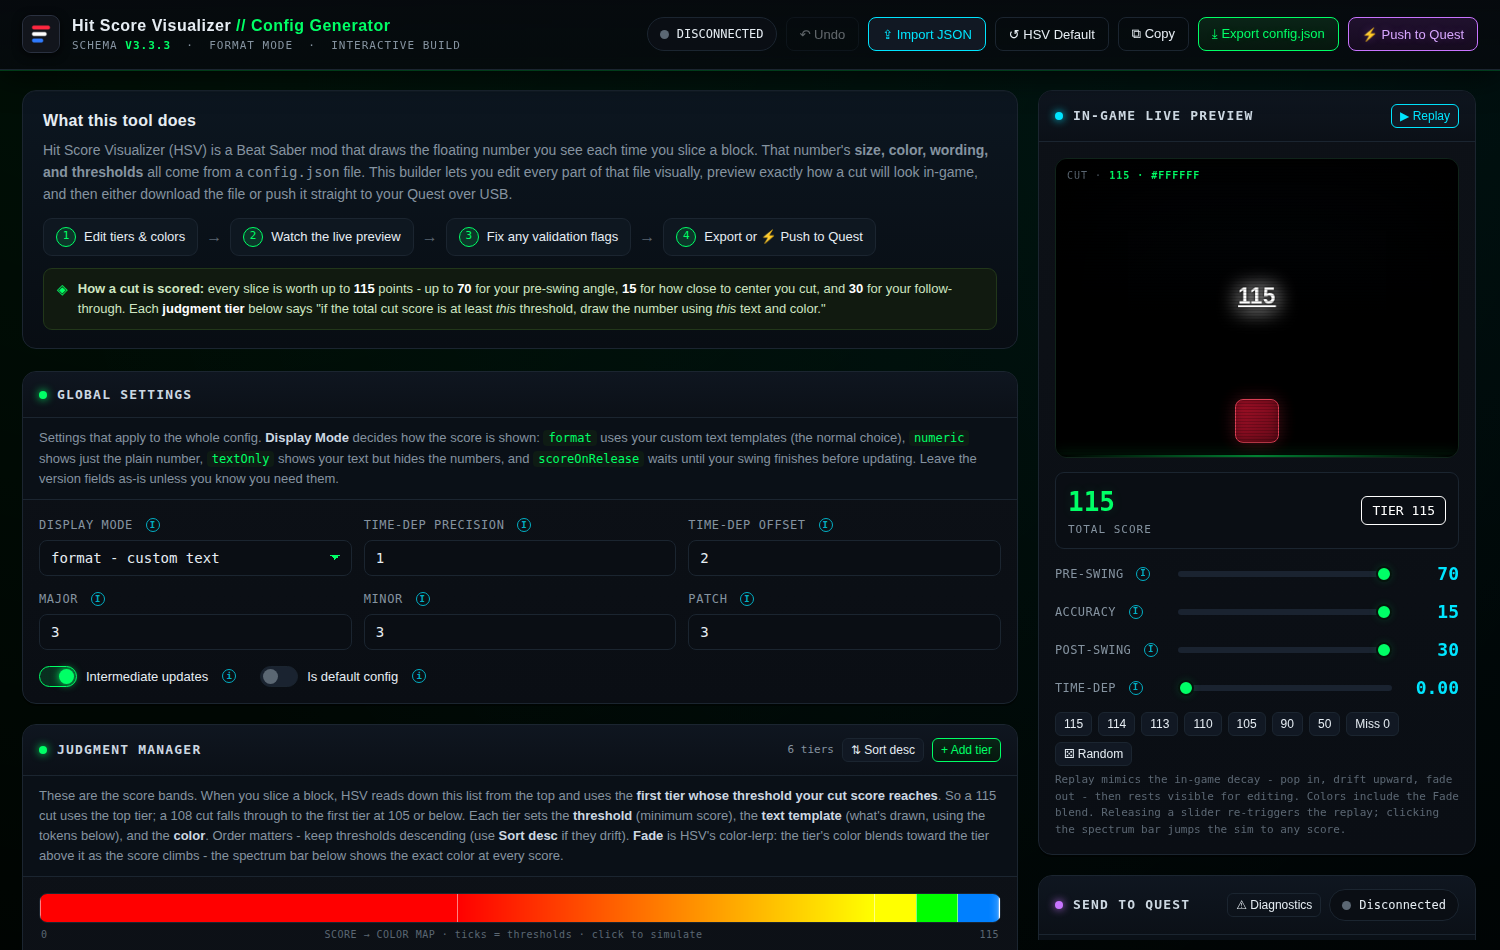
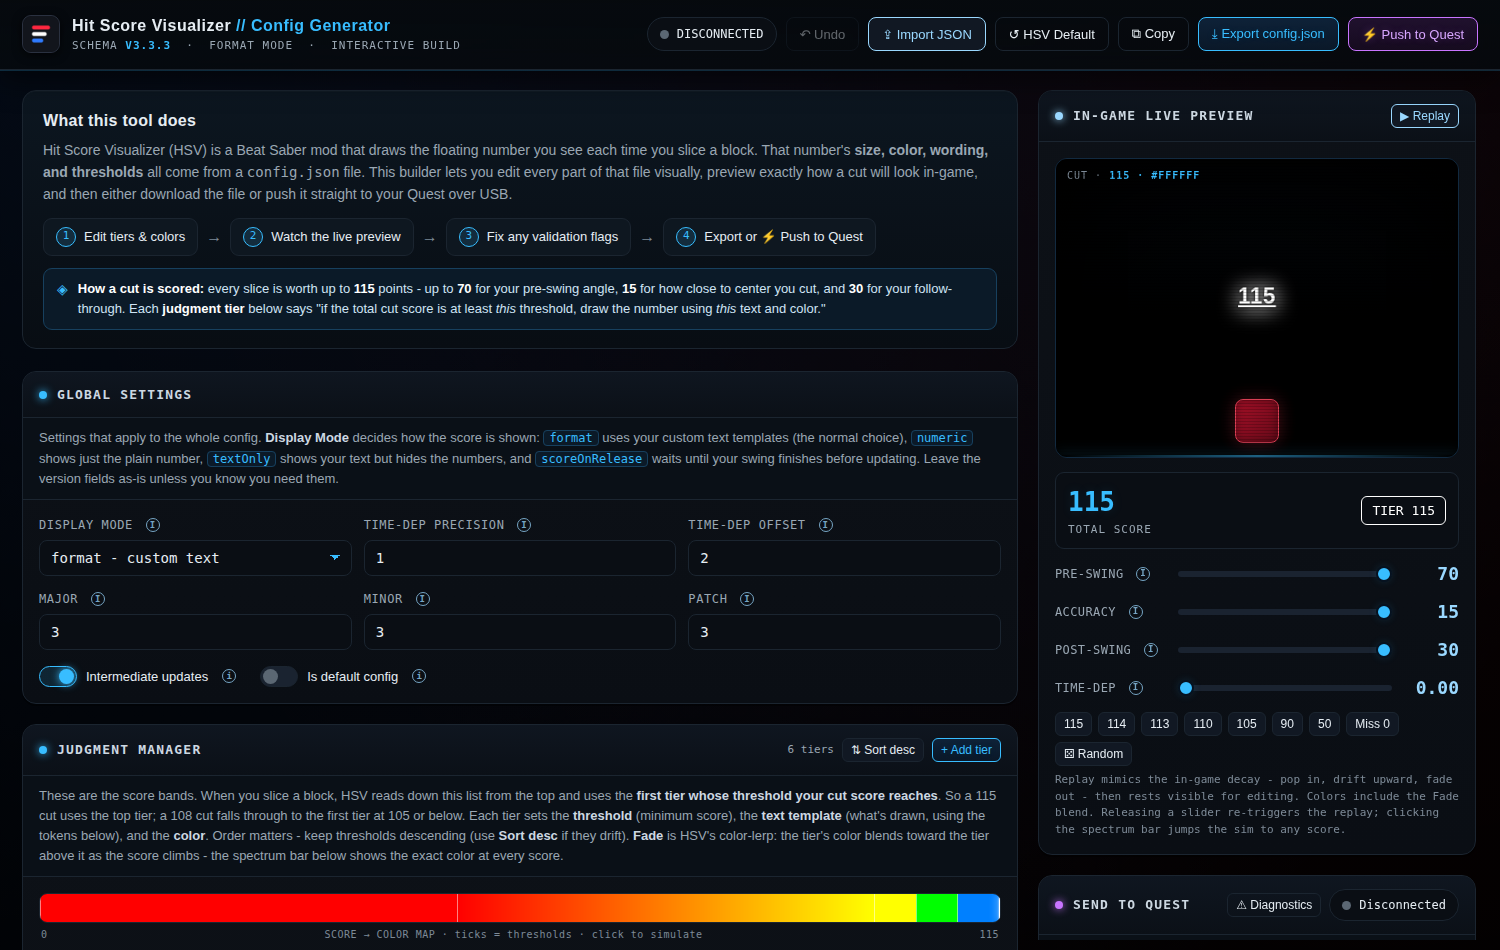
UI Updates

diff --git a/index.html b/index.html
@@ -12,17 +12,23 @@
     --panel-2:#0a0e14;
     --panel-3:#111823;
     --border:#1b2530;
-    --border-glow:#00ff6633;
-    --grid:#0e2a1c;
-    --accent:#00ff66;
-    --accent-2:#00e5ff;
-    --accent-dim:#00ff6622;
+    /* Brand palette (from the MSploit icon): blue #2f7bff, red #ff2740, white */
+    --brand-blue:#2f7bff;
+    --brand-red:#ff2740;
+    --border-glow:#38bdff33;
+    --grid:#0e1f2e;
+    --accent:#38bdff;          /* primary accent: electric cyan-blue, 8.9:1 on panels */
+    --accent-2:#9ad8ff;        /* secondary: ice blue for values, info, links */
+    --accent-dim:#38bdff22;
+    --accent-bg:#0b1a28;       /* tinted fill for code chips, callouts, primary buttons */
+    --accent-line:#17405e;
     --text:#e6edf3;
-    --muted:#8593a0;
-    --muted-2:#5b6773;
-    --danger:#ff3b52;
+    --muted:#9aa7b3;           /* labels: 7.7:1 */
+    --muted-2:#7d8a97;         /* hints: 5.4:1 (was 3.3, failed AA) */
+    --danger:#ff4d5e;          /* brand red, lifted slightly for legible text */
+    --danger-dim:#ff27403a;
     --warn:#ffb400;
-    --ok:#00ff66;
+    --ok:#38bdff;
     --mono:"SF Mono",ui-monospace,"JetBrains Mono","Fira Code",Consolas,"Roboto Mono",monospace;
     --sans:"Inter",-apple-system,BlinkMacSystemFont,"Segoe UI",Roboto,sans-serif;
   }
@@ -30,8 +36,8 @@
   html,body{margin:0;padding:0;background:var(--bg);color:var(--text);font-family:var(--sans);font-size:15px;line-height:1.5;-webkit-font-smoothing:antialiased;}
   body{
     background-image:
-      radial-gradient(circle at 15% -10%, #00ff6614, transparent 45%),
-      radial-gradient(circle at 90% 0%, #00e5ff10, transparent 40%);
+      radial-gradient(circle at 15% -10%, #2f7bff1c, transparent 45%),
+      radial-gradient(circle at 90% 0%, #ff27400c, transparent 40%);
     min-height:100vh;
   }
   a{color:var(--accent-2);text-decoration:none;}
@@ -76,13 +82,13 @@
   }
   button:hover{border-color:var(--accent);box-shadow:0 0 0 1px var(--accent-dim),0 0 14px var(--accent-dim);color:#fff;}
   button:active{transform:translateY(1px);}
-  button.primary{background:linear-gradient(180deg,#0a2417,#06170e);border-color:var(--accent);color:var(--accent);text-shadow:0 0 8px var(--accent-dim);}
-  button.primary:hover{background:linear-gradient(180deg,#0d3220,#0a2417);box-shadow:0 0 18px var(--accent-dim);}
+  button.primary{background:linear-gradient(180deg,#0e2238,#0a1828);border-color:var(--accent);color:var(--accent);text-shadow:0 0 8px var(--accent-dim);}
+  button.primary:hover{background:linear-gradient(180deg,#123052,#0e2238);box-shadow:0 0 18px var(--accent-dim);}
   button.cyan{border-color:var(--accent-2);color:var(--accent-2);}
   button.cyan:hover{box-shadow:0 0 14px #00e5ff33;border-color:var(--accent-2);}
   button.ghost{background:transparent;}
-  button.danger{color:var(--danger);border-color:#3a1720;}
-  button.danger:hover{border-color:var(--danger);box-shadow:0 0 12px #ff3b5233;color:#fff;}
+  button.danger{color:var(--danger);border-color:#4a1a24;}
+  button.danger:hover{border-color:var(--brand-red);box-shadow:0 0 12px var(--danger-dim);color:#fff;}
   button.tiny{padding:4px 8px;font-size:12px;border-radius:6px;}
   button:disabled{opacity:.4;cursor:not-allowed;}
 
@@ -143,10 +149,10 @@
     border:1px solid var(--border);border-radius:11px;
     background:linear-gradient(180deg,#0e151e,#0a0f16);
     padding:12px;position:relative;
-    border-left:4px solid var(--jc,#00ff66);
+    border-left:4px solid var(--jc,#38bdff);
     transition:border-color .14s,box-shadow .14s;
   }
-  .jcard:hover{box-shadow:0 0 0 1px #ffffff08, -3px 0 14px -6px var(--jc,#00ff66);}
+  .jcard:hover{box-shadow:0 0 0 1px #ffffff08, -3px 0 14px -6px var(--jc,#38bdff);}
   .jcard .jrow1{display:flex;align-items:center;gap:10px;margin-bottom:10px;}
   .swatch{
     width:34px;height:34px;border-radius:8px;flex:none;position:relative;cursor:pointer;overflow:hidden;
@@ -163,8 +169,8 @@
   .jcard .jrow2{display:flex;align-items:flex-end;gap:10px;flex-wrap:wrap;}
   .alpha-wrap{flex:1;min-width:130px;}
   input[type=range]{-webkit-appearance:none;appearance:none;width:100%;height:6px;border-radius:4px;background:#1a2330;outline:none;margin:8px 0;}
-  input[type=range]::-webkit-slider-thumb{-webkit-appearance:none;width:16px;height:16px;border-radius:50%;background:var(--accent);cursor:pointer;box-shadow:0 0 8px var(--accent-dim);border:2px solid #05140c;}
-  input[type=range]::-moz-range-thumb{width:16px;height:16px;border-radius:50%;background:var(--accent);cursor:pointer;border:2px solid #05140c;}
+  input[type=range]::-webkit-slider-thumb{-webkit-appearance:none;width:16px;height:16px;border-radius:50%;background:var(--accent);cursor:pointer;box-shadow:0 0 8px var(--accent-dim);border:2px solid #061220;}
+  input[type=range]::-moz-range-thumb{width:16px;height:16px;border-radius:50%;background:var(--accent);cursor:pointer;border:2px solid #061220;}
   .jcard-tools{display:flex;gap:5px;margin-left:auto;}
   .hexlabel{font-family:var(--mono);font-size:12px;color:var(--muted);min-width:150px;}
   .hexlabel b{color:var(--accent-2);}
@@ -184,10 +190,10 @@
     height:300px;
     background:
       linear-gradient(180deg,#04070a,#000 60%),
-      repeating-linear-gradient(0deg,transparent,transparent 39px,#0c3a26 39px,#0c3a26 40px),
-      repeating-linear-gradient(90deg,transparent,transparent 39px,#0c221c 39px,#0c221c 40px);
+      repeating-linear-gradient(0deg,transparent,transparent 39px,#0d2a44 39px,#0d2a44 40px),
+      repeating-linear-gradient(90deg,transparent,transparent 39px,#0b1c2c 39px,#0b1c2c 40px);
     background-blend-mode:normal;
-    border:1px solid #10241a;
+    border:1px solid #122a40;
     box-shadow:inset 0 0 60px #000, inset 0 0 120px #000;
   }
   .stage::before{
@@ -237,22 +243,22 @@
   /* ---------- Validation ---------- */
   .valitem{display:flex;gap:10px;padding:9px 11px;border-radius:8px;font-size:13px;margin-bottom:8px;border:1px solid transparent;font-family:var(--mono);line-height:1.4;align-items:flex-start;}
   .valitem .ico{flex:none;font-weight:700;}
-  .valitem.err{background:#2a0f14;border-color:#4a1620;color:#ffb3bd;}
+  .valitem.err{background:#240b12;border-color:#5a1a26;color:#ffc2c9;}
   .valitem.err .ico{color:var(--danger);}
   .valitem.warn{background:#2a2205;border-color:#4a3c0a;color:#ffe08a;}
   .valitem.warn .ico{color:var(--warn);}
-  .valitem.ok{background:#082018;border-color:#0f3a2a;color:#a5f5cf;}
+  .valitem.ok{background:#081a2a;border-color:#15395a;color:#bfe3ff;}
   .valitem.ok .ico{color:var(--accent);}
 
-  textarea.json{width:100%;min-height:280px;font-family:var(--mono);font-size:12px;line-height:1.55;background:#05080b;border:1px solid var(--border);border-radius:10px;padding:12px;color:#b9e6cd;resize:vertical;white-space:pre;overflow:auto;}
+  textarea.json{width:100%;min-height:280px;font-family:var(--mono);font-size:12px;line-height:1.55;background:#05080b;border:1px solid var(--border);border-radius:10px;padding:12px;color:#c4dcef;resize:vertical;white-space:pre;overflow:auto;}
 
-  .tokenchip{display:inline-block;font-family:var(--mono);font-size:11px;background:#0e1b14;border:1px solid #16351f;color:var(--accent);padding:2px 7px;border-radius:5px;margin:2px 3px 2px 0;cursor:help;}
+  .tokenchip{display:inline-block;font-family:var(--mono);font-size:12px;background:var(--accent-bg);border:1px solid var(--accent-line);color:var(--accent);padding:2px 7px;border-radius:5px;margin:2px 3px 2px 0;cursor:help;}
   .tokenchip.c2{color:var(--accent-2);background:#08181d;border-color:#123039;}
   .legend{font-size:12px;color:var(--muted);line-height:1.7;font-family:var(--mono);}
   .legend b{color:#cdd8e2;}
 
   .foot{max-width:1600px;margin:0 auto;padding:0 22px 40px;color:var(--muted-2);font-size:12px;font-family:var(--mono);text-align:center;line-height:1.7;}
-  .toast{position:fixed;bottom:22px;left:50%;transform:translateX(-50%) translateY(20px);background:#0a1a12;border:1px solid var(--accent);color:var(--accent);font-family:var(--mono);font-size:13px;padding:11px 18px;border-radius:9px;box-shadow:0 0 24px var(--accent-dim);opacity:0;pointer-events:none;transition:.25s;z-index:200;}
+  .toast{position:fixed;bottom:22px;left:50%;transform:translateX(-50%) translateY(20px);background:#0a1826;border:1px solid var(--accent);color:var(--accent);font-family:var(--mono);font-size:13px;padding:11px 18px;border-radius:9px;box-shadow:0 0 24px var(--accent-dim);opacity:0;pointer-events:none;transition:.25s;z-index:200;}
   .toast.show{opacity:1;transform:translateX(-50%) translateY(0);}
   .inline-note{font-size:11px;color:var(--muted-2);font-family:var(--mono);margin-top:6px;}
   .drag-hint{font-size:10px;color:var(--muted-2);font-family:var(--mono);}
@@ -261,7 +267,7 @@
   /* ---------- Panel subtitle / explanations ---------- */
   .panel-sub{padding:10px 16px;border-bottom:1px solid var(--border);background:#0a1017;color:var(--muted);font-size:13px;line-height:1.55;}
   .panel-sub b{color:#cdd8e2;font-weight:600;}
-  .panel-sub code{font-family:var(--mono);color:var(--accent);background:#0e1b14;padding:1px 5px;border-radius:4px;font-size:12px;}
+  .panel-sub code{font-family:var(--mono);color:var(--accent);background:var(--accent-bg);border:1px solid var(--accent-line);padding:0 5px;border-radius:4px;font-size:12px;}
 
   /* Intro / How-it-works banner */
   .intro{
@@ -277,7 +283,7 @@
   .flow .step{display:flex;align-items:center;gap:8px;background:#0e1720;border:1px solid var(--border);border-radius:9px;padding:8px 12px;font-size:13px;}
   .flow .step .num{width:20px;height:20px;border-radius:50%;background:var(--accent-dim);border:1px solid var(--accent);color:var(--accent);font-family:var(--mono);font-size:11px;display:grid;place-items:center;flex:none;}
   .flow .arrow{color:var(--muted-2);font-size:16px;}
-  .callout{display:flex;gap:10px;align-items:flex-start;background:#111a10;border:1px solid #22371a;border-radius:9px;padding:10px 13px;font-size:13px;color:#cfe6c2;line-height:1.55;}
+  .callout{display:flex;gap:10px;align-items:flex-start;background:var(--accent-bg);border:1px solid var(--accent-line);border-radius:9px;padding:10px 13px;font-size:13px;color:#cfe4f5;line-height:1.55;}
   .callout .ci{color:var(--accent);flex:none;font-size:14px;}
   .callout.cyan{background:#0a1a20;border-color:#123846;color:#c2e3ee;}
   .callout.cyan .ci{color:var(--accent-2);}
@@ -298,7 +304,7 @@
   .steps li:last-child{border-bottom:none;}
   .steps li::before{counter-increment:s;content:counter(s);position:absolute;left:0;top:6px;width:22px;height:22px;border-radius:50%;background:#12202b;border:1px solid var(--border);color:var(--accent-2);font-family:var(--mono);font-size:11px;display:grid;place-items:center;}
   .steps li b{color:#cdd8e2;}
-  .steps li code{font-family:var(--mono);color:var(--accent);font-size:12px;}
+  .steps li code{font-family:var(--mono);color:var(--accent);background:var(--accent-bg);border:1px solid var(--accent-line);padding:0 4px;border-radius:4px;font-size:12px;}
   .dev-info{display:grid;grid-template-columns:auto 1fr;gap:4px 14px;font-family:var(--mono);font-size:13px;margin:12px 0;padding:11px 13px;border:1px solid var(--border);border-radius:9px;background:var(--panel-2);}
   .dev-info .k{color:var(--muted);}
   .dev-info .v{color:var(--accent-2);word-break:break-all;}
@@ -319,7 +325,7 @@
   details.help summary::before{content:"▸ ";color:var(--muted);}
   details.help[open] summary::before{content:"▾ ";}
   details.help .hb{padding:0 13px 13px;font-size:13px;color:var(--muted);line-height:1.6;}
-  details.help .hb code{font-family:var(--mono);color:var(--accent);font-size:12px;}
+  details.help .hb code{font-family:var(--mono);color:var(--accent);background:var(--accent-bg);border:1px solid var(--accent-line);padding:0 4px;border-radius:4px;font-size:12px;}
 
   /* ---------- QA-pass additions ---------- */
   .bandwrap{position:relative;height:30px;border:1px solid var(--border);border-radius:8px;overflow:hidden;margin-bottom:4px;background:#05080b;cursor:crosshair;}
@@ -329,15 +335,15 @@
   .hexwrap{width:96px;flex:none;}
   .hexwrap label.field{margin-bottom:3px;}
   input.hexin{padding:6px 8px;font-size:12px;letter-spacing:.5px;}
-  .tiny.danger.arm{background:var(--danger);border-color:var(--danger);color:#fff;box-shadow:0 0 10px #ff3b5266;}
+  .tiny.danger.arm{background:#d81f36;border-color:var(--brand-red);color:#fff;box-shadow:0 0 10px var(--danger-dim);}
   .scanlines{position:absolute;inset:0;pointer-events:none;z-index:3;background:repeating-linear-gradient(0deg,transparent 0 2px,rgba(0,0,0,.18) 2px 3px);}
 
   /* ---------- USB diagnostics ---------- */
   .status-pill.busy .led{background:var(--warn);box-shadow:0 0 10px var(--warn);}
   .usbmodal{position:fixed;inset:0;z-index:300;display:none;align-items:center;justify-content:center;background:rgba(0,0,0,.78);backdrop-filter:blur(4px);padding:20px;}
   .usbmodal.show{display:flex;}
-  .usbcard{width:min(640px,100%);max-height:90vh;overflow:auto;background:linear-gradient(180deg,#160b0e,#0a0507);border:1px solid var(--danger);border-radius:14px;box-shadow:0 0 40px #ff3b5240, inset 0 0 60px #ff3b520d;padding:22px;}
-  .usbcard h2{margin:0 0 4px;font-family:var(--mono);font-size:16px;color:var(--danger);letter-spacing:1px;text-shadow:0 0 12px #ff3b5266;}
+  .usbcard{width:min(640px,100%);max-height:90vh;overflow:auto;background:linear-gradient(180deg,#160b0e,#0a0507);border:1px solid var(--danger);border-radius:14px;box-shadow:0 0 40px #ff274038, inset 0 0 60px #ff27400d;padding:22px;}
+  .usbcard h2{margin:0 0 4px;font-family:var(--mono);font-size:16px;color:var(--danger);letter-spacing:1px;text-shadow:0 0 12px var(--danger-dim);}
   .usbcard .sub2{font-family:var(--mono);font-size:11px;color:#ff8a97;letter-spacing:2px;text-transform:uppercase;margin-bottom:14px;}
   .usbcard p{color:#e8c9ce;font-size:13px;line-height:1.6;margin:0 0 14px;}
   .usbcard p b{color:#fff;}
@@ -345,7 +351,7 @@
   .cmdgroup .oslabel{font-family:var(--mono);font-size:11px;color:var(--muted);text-transform:uppercase;letter-spacing:1px;margin-bottom:6px;}
   .cmdrow{display:flex;align-items:center;gap:9px;background:#05080b;border:1px solid #331019;border-radius:8px;padding:8px 10px;margin-bottom:7px;}
   .cmdrow code{flex:1;font-family:var(--mono);font-size:13px;color:var(--accent);}
-  .usberr{font-family:var(--mono);font-size:11px;color:#b06a74;background:#0a0507;border:1px dashed #4a1620;border-radius:8px;padding:8px 10px;margin-bottom:14px;word-break:break-all;}
+  .usberr{font-family:var(--mono);font-size:11px;color:#e59aa4;background:#0a0507;border:1px dashed #4a1620;border-radius:8px;padding:8px 10px;margin-bottom:14px;word-break:break-all;}
   .usberr:empty{display:none;}
   .usbbtns{display:flex;gap:10px;flex-wrap:wrap;margin-top:4px;}
 
@@ -408,7 +414,7 @@
         <span class="arrow">→</span>
         <div class="step"><span class="num">4</span> Export or ⚡ Push to Quest</div>
       </div>
-      <div class="callout"><span class="ci">◈</span><span><b style="color:#cfe6c2">How a cut is scored:</b> every slice is worth up to <b style="color:#fff">115</b> points - up to <b style="color:#fff">70</b> for your pre-swing angle, <b style="color:#fff">15</b> for how close to center you cut, and <b style="color:#fff">30</b> for your follow-through. Each <b style="color:#fff">judgment tier</b> below says "if the total cut score is at least <i>this</i> threshold, draw the number using <i>this</i> text and color."</span></div>
+      <div class="callout"><span class="ci">◈</span><span><b style="color:#fff">How a cut is scored:</b> every slice is worth up to <b style="color:#fff">115</b> points - up to <b style="color:#fff">70</b> for your pre-swing angle, <b style="color:#fff">15</b> for how close to center you cut, and <b style="color:#fff">30</b> for your follow-through. Each <b style="color:#fff">judgment tier</b> below says "if the total cut score is at least <i>this</i> threshold, draw the number using <i>this</i> text and color."</span></div>
     </section>
 
     <!-- Global settings -->
@@ -533,7 +539,7 @@
           <span class="tokenchip" title="Literal percent sign">%%</span>
         </div>
         <div class="legend">
-          <b>Rich text (TextMeshPro):</b> &lt;size=200%&gt;…&lt;/size&gt; · &lt;color=#00ff66&gt;…&lt;/color&gt; · &lt;b&gt; · &lt;i&gt; · &lt;u&gt;<br>
+          <b>Rich text (TextMeshPro):</b> &lt;size=200%&gt;…&lt;/size&gt; · &lt;color=#38bdff&gt;…&lt;/color&gt; · &lt;b&gt; · &lt;i&gt; · &lt;u&gt;<br>
           <b>Scoring model:</b> pre-swing max <b>70</b> + accuracy max <b>15</b> + post-swing max <b>30</b> = <b>115</b>.
         </div>
       </div>
@@ -914,7 +920,7 @@ function renderJudgments(){
           <input type="number" value="${j.threshold}" data-field="threshold" data-idx="${idx}" min="0" max="115" step="1">
         </div>
         <div class="jgrow">
-          <label class="field">Text template <span class="info" data-tip="What gets drawn for this tier. Tokens: %s = score, %B / %C / %A = swing-part text from the Sub-Judgments panel, %d / %T = time dependency, %n = newline. Style with TMP tags like <size=150%> or <color=#00ff66>.">i</span></label>
+          <label class="field">Text template <span class="info" data-tip="What gets drawn for this tier. Tokens: %s = score, %B / %C / %A = swing-part text from the Sub-Judgments panel, %d / %T = time dependency, %n = newline. Style with TMP tags like <size=150%> or <color=#38bdff>.">i</span></label>
           <textarea data-field="text" data-idx="${idx}" rows="1" spellcheck="false">${escapeHtml(j.text||"")}</textarea>
         </div>
         <div class="jcard-tools">
@@ -1512,7 +1518,7 @@ function toast(msg,isErr){
   t.textContent=msg;
   t.style.borderColor=isErr?"var(--danger)":"var(--accent)";
   t.style.color=isErr?"var(--danger)":"var(--accent)";
-  t.style.boxShadow="0 0 24px "+(isErr?"#ff3b5233":"var(--accent-dim)");
+  t.style.boxShadow="0 0 24px "+(isErr?"var(--danger-dim)":"var(--accent-dim)");
   t.classList.add("show");
   clearTimeout(toastTimer);
   toastTimer=setTimeout(()=>t.classList.remove("show"),2200);

diff --git a/README.md b/README.md
@@ -4,9 +4,9 @@
 
 **A visual editor, live simulator, and USB deployment tool for Beat Saber's HitScoreVisualizer mod - in a single HTML file.**
 
-[![Live App](https://img.shields.io/badge/▶_live_app-spanky3651.github.io-00ff66?style=flat-square&labelColor=0d1117)](https://spanky3651.github.io/HSV-Config-Generator/)
+[![Live App](https://img.shields.io/badge/▶_live_app-spanky3651.github.io-38bdff?style=flat-square&labelColor=0d1117)](https://spanky3651.github.io/HSV-Config-Generator/)
 [![Pages Deploy](https://github.com/Spanky3651/HSV-Config-Generator/actions/workflows/pages/pages-build-deployment/badge.svg)](https://github.com/Spanky3651/HSV-Config-Generator/actions)
-[![No Dependencies](https://img.shields.io/badge/dependencies-none-00e5ff?style=flat-square&labelColor=0d1117)](#how-it-works)
+[![No Dependencies](https://img.shields.io/badge/dependencies-none-2f7bff?style=flat-square&labelColor=0d1117)](#how-it-works)
 
 ### **[▶ Open the app](https://spanky3651.github.io/HSV-Config-Generator/)**
 
